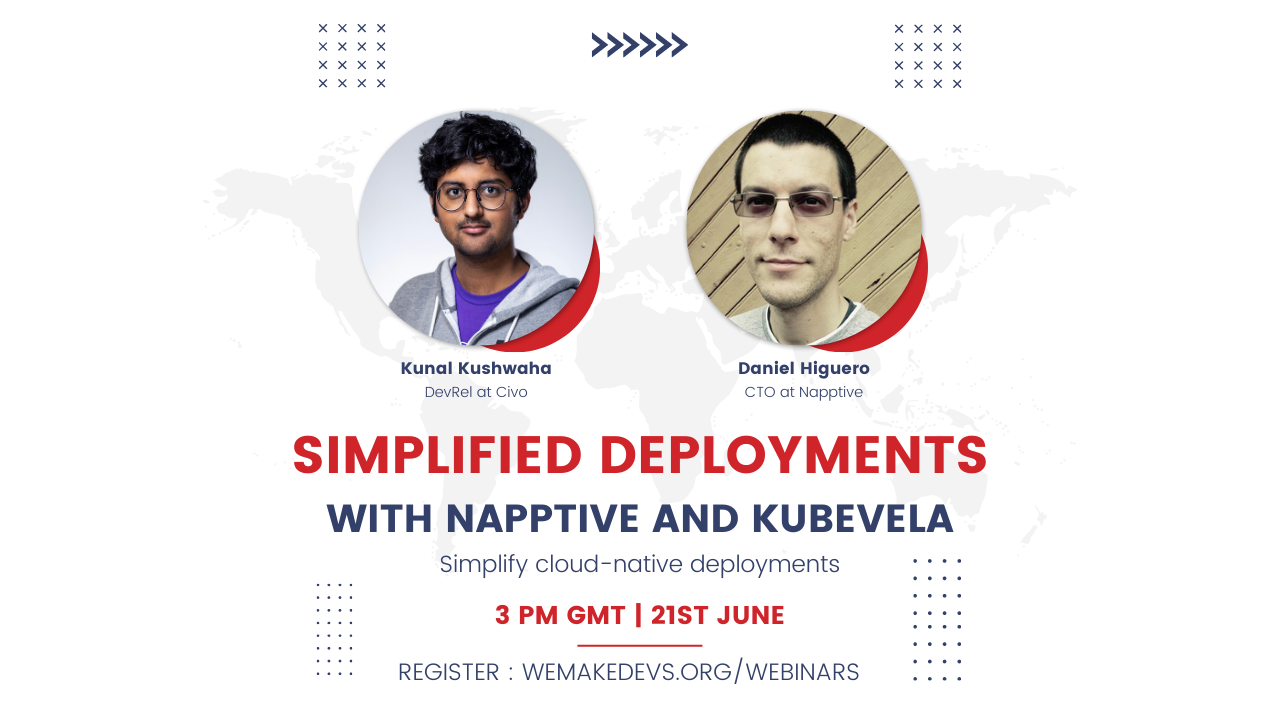
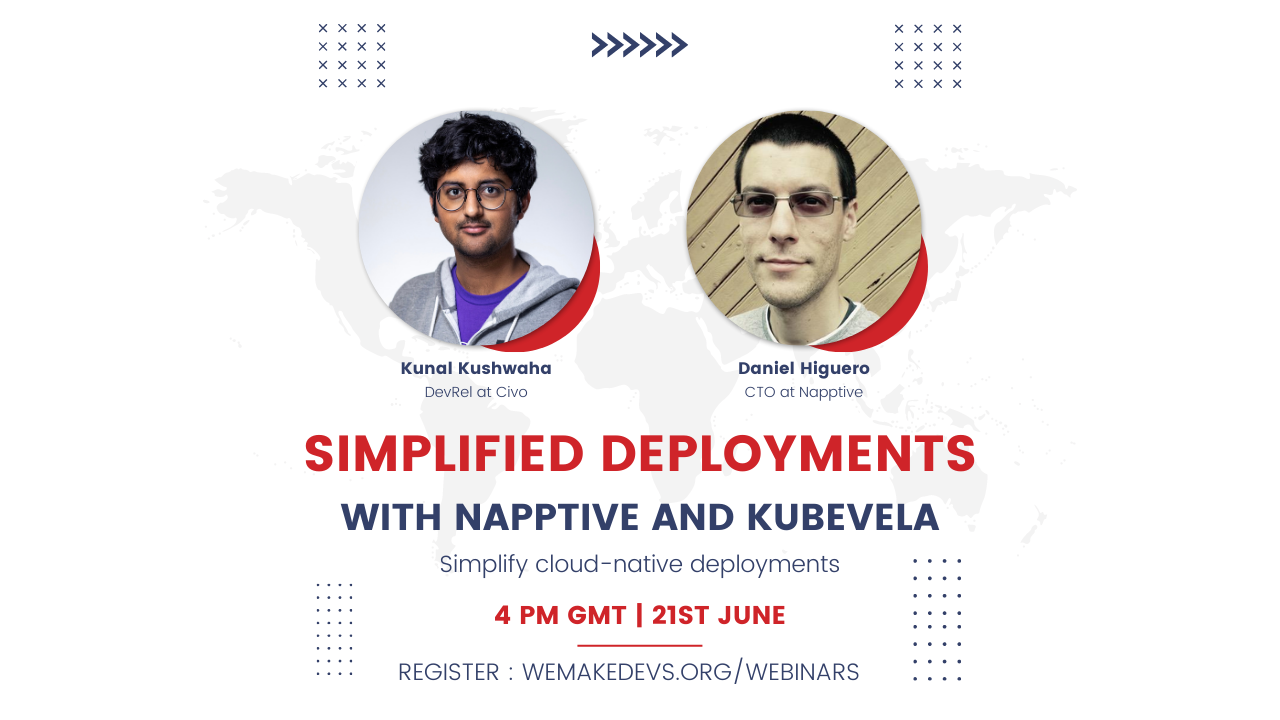
Fix: Poster and timing errors

diff --git a/src/content/Webinars/SimplifiedDeployment.js b/src/content/Webinars/SimplifiedDeployment.js
@@ -17,7 +17,7 @@ const SimplifiedDeploymentWebinar = {
     'How does the OAM model make deployments easier?',
     'Learn how to use the Napptive Playground and Kubevela to simplify cloud-native deployments',
   ],
-  time: '21 June 2023 15:00:00 GMT',
+  time: '21 June 2023 16:00:00 GMT',
   speakers: [
     {
       name: 'Daniel Higuero',
